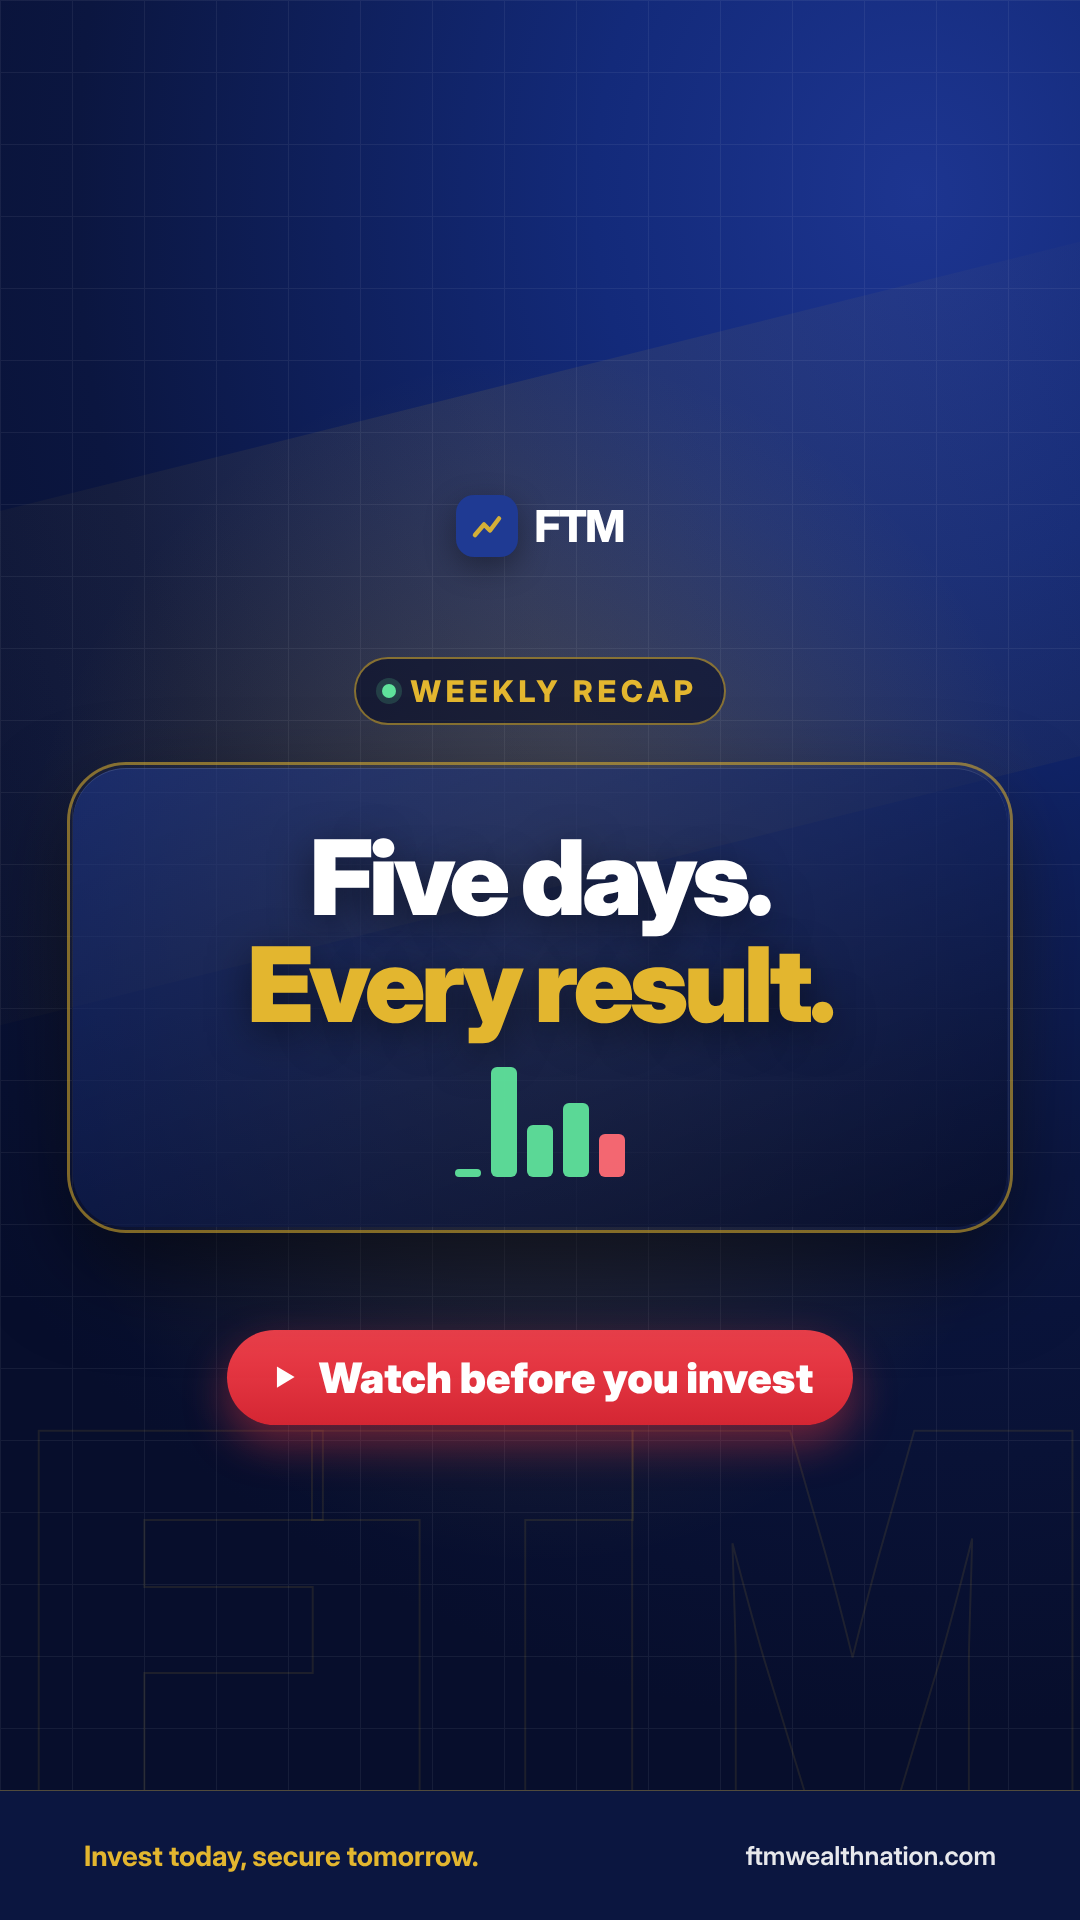
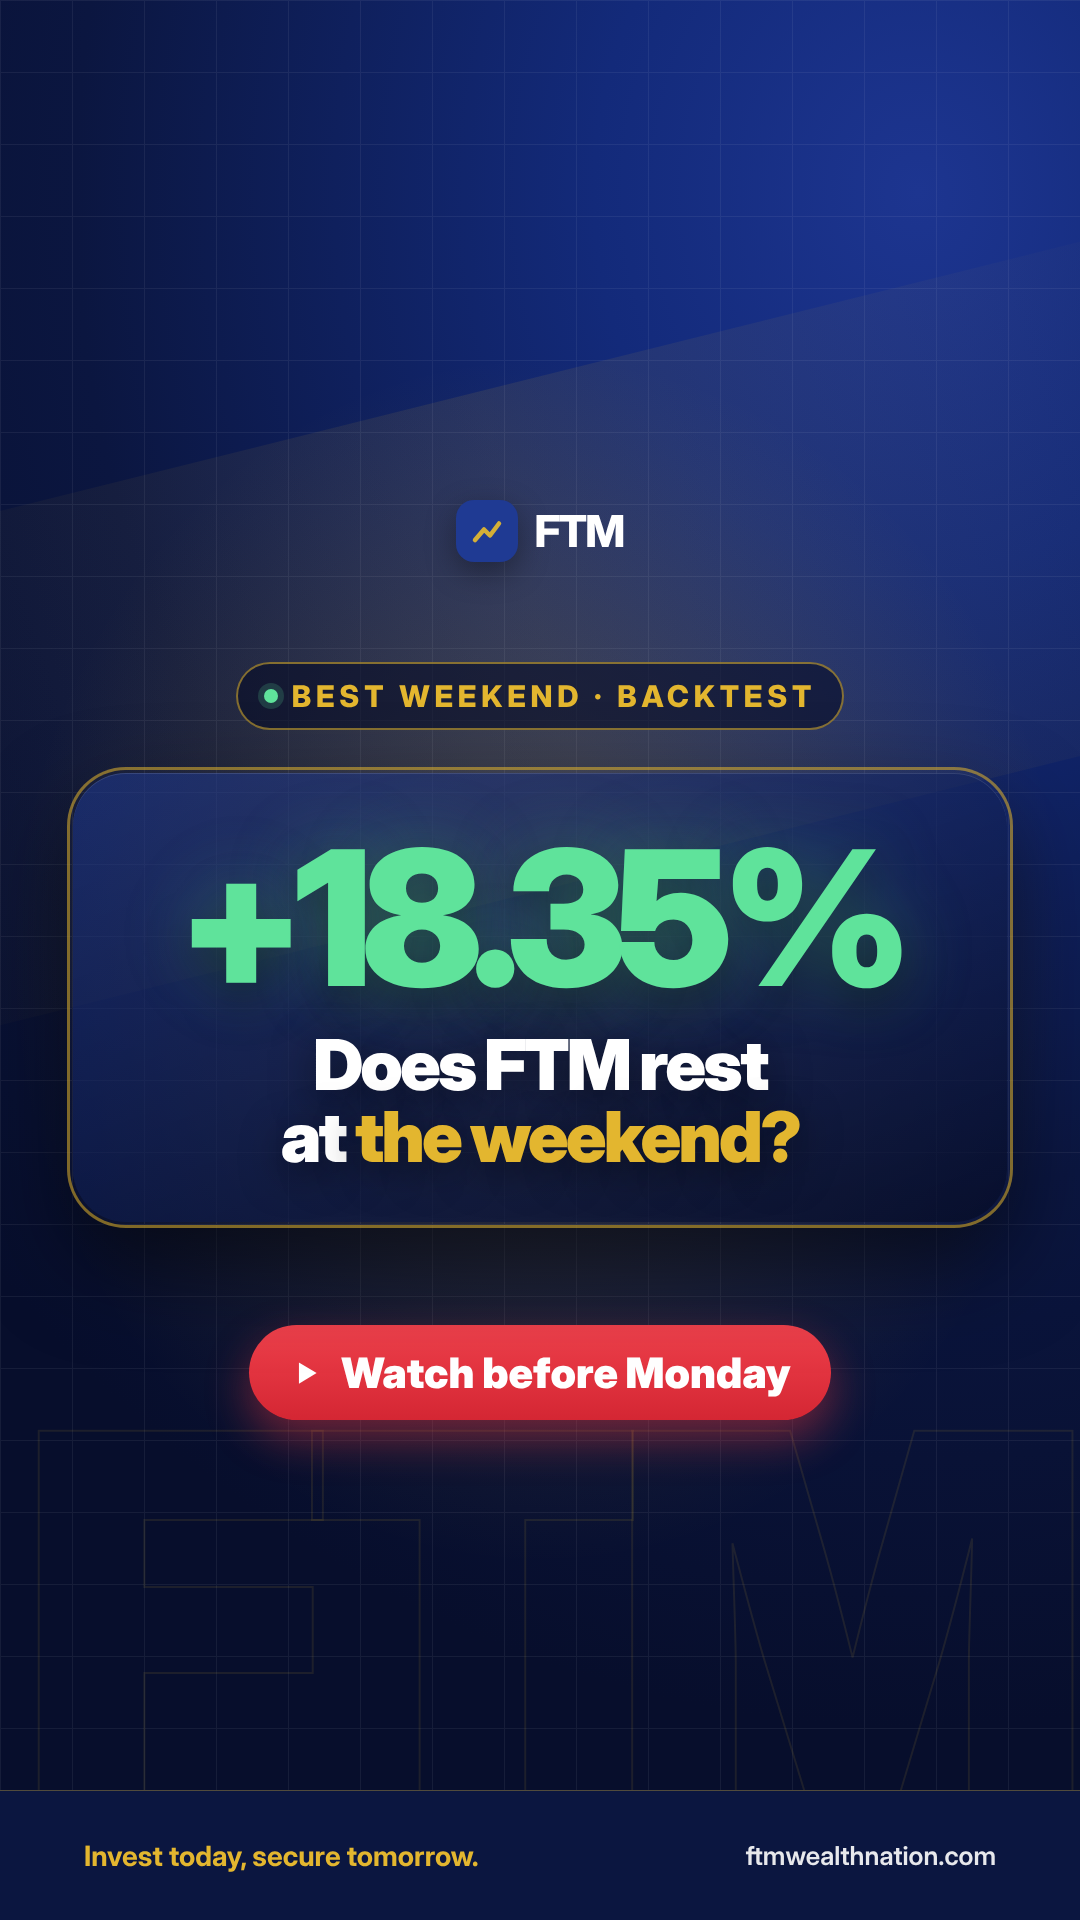
Social: 22 Nov 06:00 becomes 'Does FTM rest at the weekend?' (real backtest + live figures); posting-time rules
Claude-Session: https://claude.ai/code/session_015ASeiR4KkcEsuYPMxYb7QY

diff --git a/social/videos/assets/scn-weekend.js b/social/videos/assets/scn-weekend.js
@@ -1,0 +1,63 @@
+/* Nov 22: "Does FTM rest at the weekend?" Real figures: Portfolio backtest (data/trades/all/100000/g2, trades held over a weekend) + live account 14 Nov. */
+const MAYA={skin:'#c68642',hair:'#1b120c',hairStyle:'curly',top:'#7a3fb0',ph:.2};
+const SAM={skin:'#f1c27d',hair:'#6b4423',hairStyle:'short',top:'#2a6fb0',beard:1,ph:.9};
+const LENA={skin:'#ffdbac',hair:'#b5562b',hairStyle:'long',top:'#d9705a',ph:1.6};
+const DEV={skin:'#8d5524',hair:'#141414',hairStyle:'short',top:'#2fa37a',glasses:1,ph:2.1};
+const ZOE={skin:'#e0ac69',hair:'#2b1810',hairStyle:'bun',top:'#E3B62F',top2:'#b8901f',ph:.6};
+const P=(b,o)=>person(Object.assign({},b,o));
+const open_=(bg)=>`<svg width="${W}" height="${H}" viewBox="0 0 ${W} ${H}" style="position:absolute;inset:0">${bg||''}`;
+const grad=(id,a,b)=>`<defs><linearGradient id="${id}" x1="0" y1="0" x2="0" y2="1"><stop offset="0" stop-color="${a}"/><stop offset="1" stop-color="${b}"/></linearGradient></defs><rect width="${W}" height="${H}" fill="url(#${id})"/>`;
+const TX=(x,y,s,c,txt,w,o)=>`<text x="${x}" y="${y}" text-anchor="middle" font-family="Inter" font-weight="${w||900}" font-size="${s}" fill="${c}" opacity="${o==null?1:o}">${txt}</text>`;
+function stars(t,n){let s='';for(let i=0;i<(n||60);i++){const x=(i*173)%W,y=(i*97)%1250+40;s+=`<circle cx="${x}" cy="${y}" r="${1.5+(i%3)}" fill="#fff" opacity="${.25+.35*(.5+.5*sin(t*2+i))}"/>`}return s}
+function moon(x,y,r){return `<circle cx="${x}" cy="${y}" r="${r}" fill="#f6e7b0"/><circle cx="${x+r*.45}" cy="${y-r*.2}" r="${r*.9}" fill="#0b1640"/>`}
+function stamp(t,label,col,y){const p=back(t/0.3);return `<g transform="translate(540,${y||1040}) rotate(-8) scale(${1.8-0.8*p})" opacity="${cl(t/0.12)}"><rect x="-230" y="-70" width="460" height="140" rx="18" fill="rgba(5,10,34,.6)" stroke="${col}" stroke-width="12"/>${TX(0,38,108,col,label)}</g>`}
+function count(t,a,b,dec){const v=a+(b-a)*ease(t);return v.toLocaleString('en-US',{minimumFractionDigits:dec||0,maximumFractionDigits:dec||0})}
+function flash(t){return t<0.18?`<rect width="${W}" height="${H}" fill="#fff" opacity="${0.5*(1-t/0.18)}"/>`:''}
+const SCN={
+ hook(t){
+  const days=['MON','TUE','WED','THU','FRI','SAT','SUN'];let cal='';
+  days.forEach((d,i)=>{const we=i>4,a=ease((t-i*0.07)/0.4),x=90+i*130;cal+=`<g opacity="${a}" transform="translate(${x},${430+(1-a)*40})"><rect x="0" y="0" width="112" height="128" rx="20" fill="${we?'rgba(212,175,55,.18)':'rgba(255,255,255,.08)'}" stroke="${we?'#D4AF37':'rgba(255,255,255,.2)'}" stroke-width="${we?4:2}"/>${TX(56,52,30,we?'#E3B62F':'#c9d0ee',d,800)}${we?TX(56,104,40,'#E3B62F','?'):TX(56,104,36,'#2fbf71','✓')}</g>`});
+  const zz=[0,1,2].map(i=>{const k=(t*0.8+i/3)%1;return TX(-200+k*0,-200,40+k*30,'#c9d0ee','z',900,1-k)}).join('');
+  const w=t>3.3;
+  return open_(grad('hg','#0b1640','#03061a'))+stars(t)+moon(900,330,46)+cal+
+   `<rect x="70" y="640" width="940" height="560" rx="44" fill="#050a22" opacity=".9" stroke="#D4AF37" stroke-width="4"/>`+
+   TX(540,760,64,'#fff','Most people think',800)+TX(540,850,78,'#E3B62F','the weekend is quiet.')+
+   TX(540,940,44,'#c9d0ee','Markets close. Nothing happens.',600,cl((t-1.1)/0.4))+zz+
+   (w?stamp(t-3.3,'WRONG','#E5323E',1090)+flash(t-3.3):'')+'</svg>'},
+ clock(t){
+  const L=[['FRI',150],['SAT',390],['SUN',630],['MON',870]];let ax='';
+  L.forEach(([d,x],i)=>{const we=i==1||i==2;ax+=`<rect x="${x-110}" y="560" width="220" height="420" rx="24" fill="${we?'rgba(212,175,55,.12)':'rgba(255,255,255,.05)'}"/>${TX(x,620,40,we?'#E3B62F':'#c9d0ee',d,800)}`});
+  const p=ease(t/2.6),x1=150+720*p;let path='M150 860';for(let x=150;x<=x1;x+=12){path+=` L${x} ${860-(x-150)*0.28+22*sin(x/40+t)}`}
+  const ex=x1,ey=860-(x1-150)*0.28+22*sin(x1/40+t);
+  const ang=t*3;
+  return open_(grad('cg','#16306e','#0b1640'))+stars(t,25)+ax+
+   `<line x1="150" y1="860" x2="${x1}" y2="860" stroke="rgba(255,255,255,.25)" stroke-dasharray="10 10" stroke-width="3"/>`+
+   `<path d="${path}" stroke="#2fbf71" stroke-width="10" fill="none" stroke-linecap="round" stroke-linejoin="round"/><circle cx="${ex}" cy="${ey}" r="${16+4*sin(t*8)}" fill="#2fbf71"/>`+
+   `<circle cx="150" cy="860" r="16" fill="#E3B62F"/>`+TX(150,930,30,'#E3B62F','Trade opens',800)+
+   (p>0.98?TX(870,930,30,'#2fbf71','Closed in profit',800):'')+
+   `<g transform="translate(540,1130)"><circle r="78" fill="#050a22" stroke="#D4AF37" stroke-width="6"/><line x1="0" y1="0" x2="${48*sin(ang)}" y2="${-48*cos(ang)}" stroke="#fff" stroke-width="8" stroke-linecap="round"/><line x1="0" y1="0" x2="${34*sin(ang/12)}" y2="${-34*cos(ang/12)}" stroke="#E3B62F" stroke-width="10" stroke-linecap="round"/></g>`+
+   TX(540,480,58,'#fff','The trade keeps running',800)+'</svg>'},
+ stats(t){
+  const C=[['577','trades held over a weekend',577,0,''],['56%','of them won',56,0,'%'],['1.9×','the average trade result',1.9,1,'×']];let g='';
+  C.forEach((c,i)=>{const a=ease((t-0.3-i*0.9)/0.5),y=440+i*275;g+=`<g opacity="${a}" transform="translate(${(1-a)*-120},0)"><rect x="90" y="${y}" width="900" height="235" rx="34" fill="rgba(5,10,34,.75)" stroke="${i==2?'#D4AF37':'rgba(255,255,255,.2)'}" stroke-width="3"/>${TX(540,y+130,112,i==2?'#E3B62F':'#2fbf71',count(cl((t-0.3-i*0.9)/1.0),0,c[2],c[3])+c[4])}${TX(540,y+195,36,'#c9d0ee',c[1],600)}</g>`});
+  return open_(grad('sg','#0b1640','#050a22'))+TX(540,370,40,'#E3B62F','PORTFOLIO · 2020 TO 2026 · BACKTEST',800)+g+'</svg>'},
+ best(t){
+  let pts='';const n=60,p=ease(t/2.2);for(let i=0;i<=n*p;i++){const x=110+i*14,y=620+(i<36?-i*1.5+12*sin(i):(-54+(i-36)*16))+8*sin(i*1.7);pts+=(i?' L':'M')+x+' '+y}
+  const v=count(cl((t-1.4)/1.2),0,18.35,2);
+  return open_(grad('bg','#16306e','#0b1640'))+
+   TX(540,380,38,'#E3B62F','BEST WEEKEND · 30 JAN → 2 FEB 2026',800)+
+   `<rect x="80" y="440" width="920" height="560" rx="36" fill="rgba(5,10,34,.7)"/>`+TX(220,500,32,'#c9d0ee','Gold',700)+
+   `<path d="${pts}" stroke="#E5323E" stroke-width="8" fill="none" stroke-linejoin="round"/>`+
+   `<g transform="translate(330,820)" opacity="${cl((t-0.4)/0.3)}"><rect x="-180" y="-46" width="360" height="92" rx="46" fill="#E5323E"/>${TX(0,17,46,'#fff','FTM: SHORT')}</g>`+
+   `<g transform="translate(540,1150) scale(${1+0.03*sin(t*5)})">${TX(0,40,150,'#2fbf71','+'+v+'%')}</g>`+
+   TX(540,1240,38,'#c9d0ee','by Monday morning',600)+'</svg>'},
+ live(t){
+  const r=150,sx=Math.abs(cos(t*1.6));
+  return open_(grad('lg','#0b1640','#03061a'))+stars(t,40)+
+   `<g transform="translate(540,640) scale(${0.3+0.7*sx},1)"><circle r="${r}" fill="#F7931A"/><circle r="${r-16}" fill="none" stroke="#ffd18a" stroke-width="6"/>${TX(0,62,190,'#fff','₿')}</g>`+
+   TX(540,880,58,'#fff','Bitcoin never closes.',800)+
+   `<g opacity="${cl((t-1)/0.4)}"><rect x="140" y="940" width="800" height="230" rx="34" fill="rgba(5,10,34,.8)" stroke="#2fbf71" stroke-width="3"/>${TX(540,1000,34,'#c9d0ee','LIVE ACCOUNT · SATURDAY 14 NOV',800)}${TX(540,1120,110,'#2fbf71','+'+count(cl((t-1)/1),0,0.64,2)+'%')}</g>`+'</svg>'},
+ cta(t,d,talk){const p=1+.04*sin(t*5);const C=[[MAYA,-1],[SAM,1],[LENA,-1],[DEV,1],[ZOE,-1]];let ppl='';
+  C.forEach(([c,dir],i)=>{const tx=180+i*180,sx=dir<0?-200:W+200,k=ease((t-i*0.15)/1.4),x=sx+(tx-sx)*k;ppl+=P(c,{x,y:1200,s:.8,t,walk:k<0.98?1:0,prop:'phone',armR:12,elR:118,mood:'smile',flip:dir>0&&k<.98})});
+  return open_(grad('ag','#1d3590','#0b1640'))+stars(t,30)+moon(900,330,40)+`<g transform="translate(540,620)"><rect x="-430" y="-200" width="860" height="400" rx="40" fill="#050a22" opacity=".9" stroke="#D4AF37" stroke-width="4"/>${TX(0,-100,58,'#fff','While you rest,',800)}${TX(0,-25,66,'#E3B62F','FTM keeps working.')}<g transform="translate(0,105) scale(${p})"><rect x="-230" y="-60" width="460" height="120" rx="60" fill="#E5323E"/>${TX(0,20,58,'#fff','Start free')}</g></g>`+ppl+'</svg>'}
+};

diff --git a/HANDOFF.md b/HANDOFF.md
@@ -776,6 +776,7 @@ api/v1/passkey.js (@simplewebauthn/server). Passkeys are stored in the Supabase 
 - No-trade day (owner 21 Nov): the 23:00 post becomes render.js quiet (note "Not every day needs a trade" + live month stats + quiet days in the trust engine backtest: days without a trade, quiet weekdays, longest quiet run, computed from data/trades/all/100000/g2; never big-profit figures on these days) and the story says the same; caption starts "Night N · No trades today on FTM."
 - One post, not two (owner 21 Nov): on Instagram and Facebook the video and the slides go in ONE post, video first, slides after (Metricool accepts mixed media; tested). TikTok cannot mix, so it gets the video only; YouTube gets the Short. Never a separate photo post next to a video post.
 - Captions (owner 21 Nov): "Today on FTM: ...", "This week on FTM: ..." — never "on the FTM master account"; few words, straight to the point.
+- Posting times (owner 21 Nov): 06:00 = education/eye-openers/about FTM; 23:00 = day results; weekly/5-day recaps only on Saturdays or the last day of a month. 22 Nov 06:00 recap replaced by "Does FTM rest at the weekend?" (scn-weekend.js; backtest trades held over a weekend: 577, 56% won vs 49% overall, avg result 1.9x; best weekend 30 Jan-2 Feb 2026 +18.35%; live Sat 14 Nov +0.64%). Note: FTM opens and closes no trades on Saturday/Sunday in the backtest; weekend profit comes from trades held open.
 - Covers v2 (owner 21 Nov: sharper, unique): render.js cover = glass card with the big figure or hook, live badge, red play button, optional "bars" (the day's trades or the week's days), all inside the centre 1080x1440 the profile grid shows; plus a 1280x720 YouTube thumb.
 - Weekly video (owner 20 Nov): python3 social/tools/weekvid.py week.json -> social/posts/v2/vid-week-<Friday>.mp4, the newsroom presenter + voice (scn-week7.js), all 7 days Saturday to Friday, best and lowest day, week total. Posted as the Saturday 06:00 video.
 - Broker choice (owner 21 Nov 2026): every "open a broker account" button goes to #open-account = a page with Deriv (https://t.deriv.link?t=ECECYN33UYBT) and Exness (FTM affiliate link https://one.toexness.com/boarding/sign-up/303589/a/2lnoimb9l4). Used by How FTM MACHINE works > Open account, Get started > Create account, and "No broker account yet? Create one" in the connect form (step 1) and the first-steps card. Script FTM.brokerPick at the end of index.html; test .github/tests/broker-pick.js.

diff --git a/CLAUDE.md b/CLAUDE.md
@@ -79,6 +79,11 @@ Every customer-facing text must be live in all 50 languages at the same moment i
 - The country flag always comes after the name, never before (leaderboard, community, chat, profiles).
 - The leaderboard (and every official place) uses the Know Your Customer country. The Community country is the member's own free choice and is never overwritten by KYC, and KYC is never overwritten by Community.
 
+## Posting times (owner instruction, 21 November 2026)
+- 06:00 = education, ideas, eye-openers, explaining FTM. 23:00 = the day's results.
+- Weekly or 5-day recaps go out only on Saturdays or on the last day of a month, never on other days.
+- A midday slot will come later; the owner's partner will define it.
+
 ## Profit days and loss days (owner instruction, 21 November 2026)
 - Say "profit days" and "loss days" (and "loss weeks"), never "good days / bad days" or "green days / red days", in every post, caption, story, video, slide and ad from now on.
 
